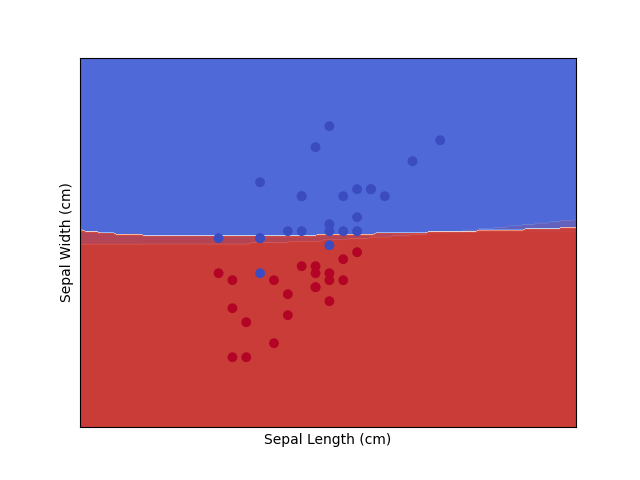
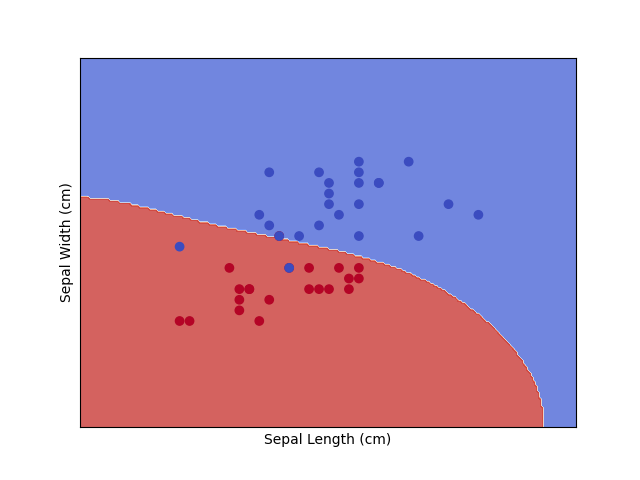
Improved kernel functions and cleared plots

diff --git a/src/SVM.py b/src/SVM.py
@@ -19,9 +19,11 @@ class SVM:
     kernel_type = "linear"
     sigma = 1.0
     m = 2
+    c = 1
+    gamma = 0.25
 
     # Constructor
-    def __init__(self, tol=pow(10,-3), eps=pow(10,-3), C=1.0, kernel_type="linear", sigma=1.0, m=2):
+    def __init__(self, tol=pow(10,-3), eps=pow(10,-3), C=1.0, kernel_type="linear", sigma=1.0, m=2, gamma=0.25):
         # Set model parameters
         self.tol = tol
         self.eps = eps
@@ -29,6 +31,7 @@ class SVM:
         self.kernel_type = kernel_type
         self.sigma = sigma
         self.m = m
+        self.gamma = gamma
 
     def trainSVM(self, x_train, y_train):
         # Set required training variables
@@ -184,11 +187,11 @@ class SVM:
         if self.kernel_type == "linear":
             K_x1_x2 = np.dot(x1,x2)
         elif self.kernel_type == "polynomial" or self.kernel_type == "poly":
-            K_x1_x2 = pow(np.dot(x1,x2),self.m)
+            K_x1_x2 = pow(np.dot(x1,x2)+self.c,self.m)
         elif self.kernel_type == "gaussian" or self.kernel_type == "rbf":
             K_x1_x2 = np.exp(-pow(np.linalg.norm(x1-x2),2) / (2*pow(self.sigma,2)))
         elif self.kernel_type == "sigmoid":
-            K_x1_x2 = np.tanh(self.sigma*np.dot(x1,x2))
+            K_x1_x2 = np.tanh(self.gamma*np.dot(x1,x2) + self.c)
         return K_x1_x2
     
     def testSVM(self,x_test) -> int:

diff --git a/src/test_SVM.py b/src/test_SVM.py
@@ -23,16 +23,18 @@ def main():
     [x_test, y_test] = Dataset.splitAndEnumData(testing_data, label_map)
 
     # Reduce training and testing data to sepal width and length
-    [x_train, x_test] = plot_Data.reduceDataset2D(x_train, x_test, col1=1, col2=2)
+    [x_train, x_test] = plot_Data.reduceDataset2D(x_train, x_test, col1=0, col2=3)
 
     # Train all SVMs
     C = 1.0
     sigma = 1.0
     m = 2
+    gamma = 1 / len(x_test[1,:]) # 1 / number of features
+
     SVMs = []
     kernels = ["linear", "poly", "rbf", "sigmoid"]
     for kernel_type in kernels:
-        svm = SVM(kernel_type=kernel_type, C=C, sigma=sigma, m=m)
+        svm = SVM(kernel_type=kernel_type, C=C, sigma=sigma, m=m, gamma=gamma)
         start = time.time()
         svm.trainSVM(x_train, y_train)
         end = time.time()
@@ -51,6 +53,7 @@ def main():
         # Plot
         plot_Data.plotResults(x_test, y_test, svm)
         plt.savefig("./graphs/" + kernels[i] + "_test.png")
+        plt.clf()
 
 if __name__ == "__main__":
     main()

diff --git a/src/plot_Data.py b/src/plot_Data.py
@@ -25,6 +25,7 @@ def plotResults(x_test, y_test, svm):
     plt.xticks(())
     plt.yticks(())
 
+
 def plotData(x, y, _svm):
     '''
     :param x: data to be visualized (nx2)
